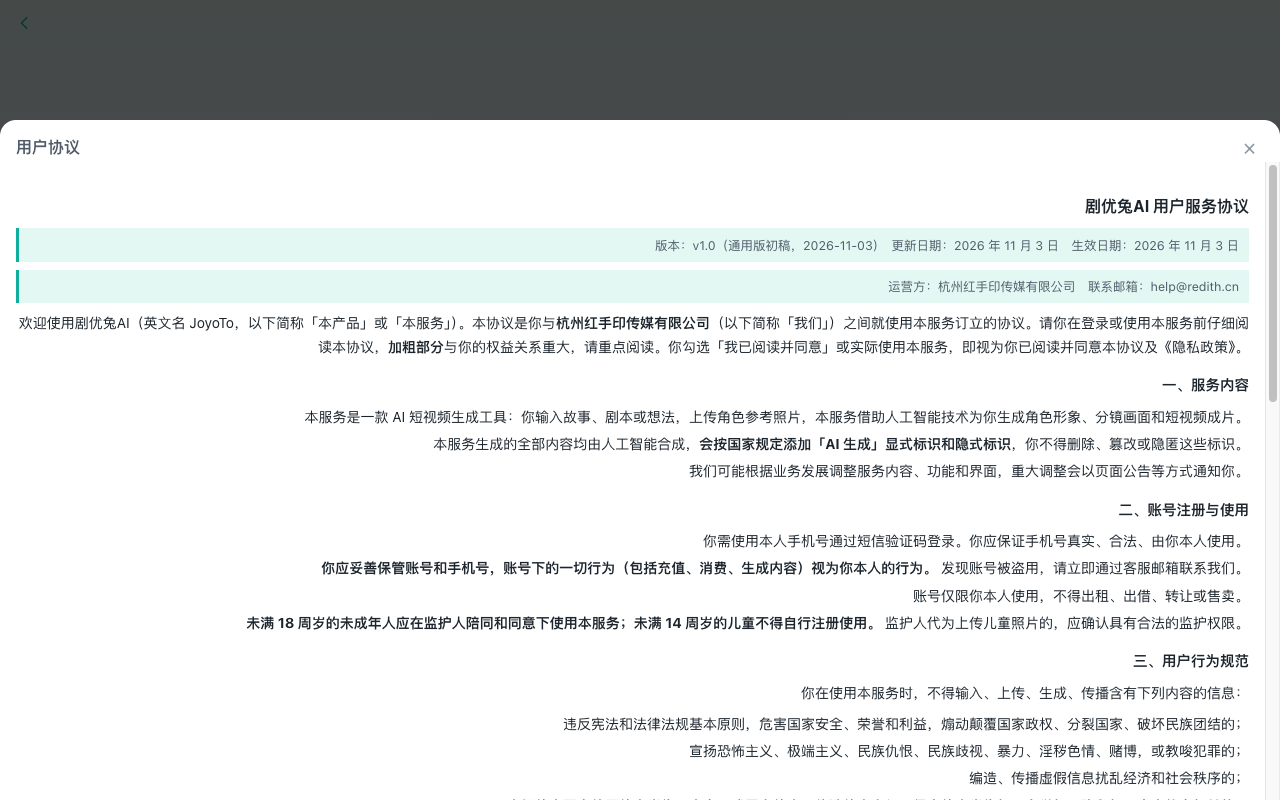
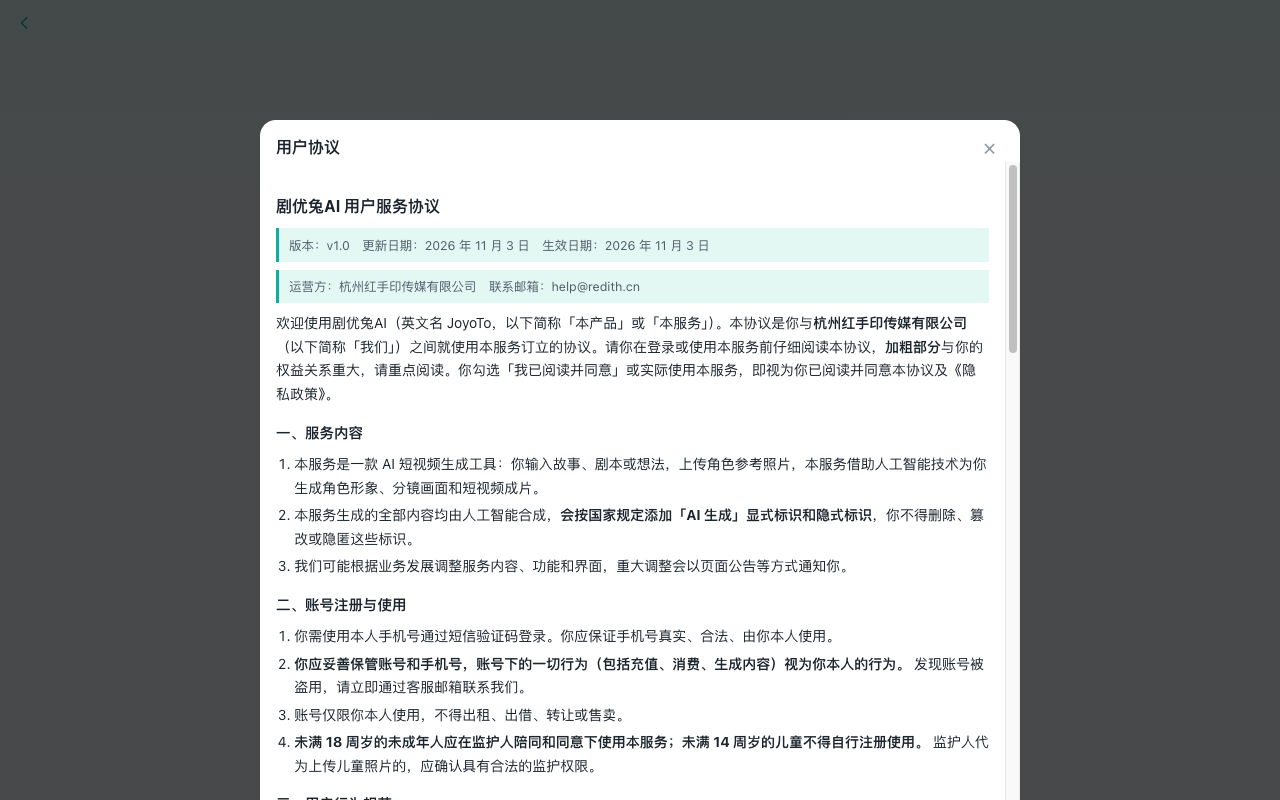
M3-LEGAL-01 复审必改修复：Docker 构建/抽屉对齐/钱包提示/consents.current/ol 序号 + 建议 a~d
背景：Lead 复审 5 必改 + 建议 a~d（§6 @ c6ffe0c）。
受影响模块：.dockerignore+Dockerfile.web（docs/legal 放行与 COPY——注意两者都不支持行内注释）、LoginPage（抽屉移根节点+PC 760 居中）、WalletPage（提示移卡片底一次）、auth/consents.js+routes.js（current 返回+登录同版本不追加）、前端 usePhotoConsent/PhotoConsentSheet/types/mock（改用 consents.current、删前端版本常量、403 先刷新、隐私链接、选图前拦截 upload-guard）、三处 .doc ol 序号。
验证结果：docker build -f deploy/Dockerfile.web 本地跑通；双端（375 触屏+iPhoneUA / 1280）走查 5 必改与建议 a 三链全过（截图更新）；test:server 463/463、check、build 通过。

diff --git a/apps/web/src/pages/AssetNewPage.vue b/apps/web/src/pages/AssetNewPage.vue
@@ -1,7 +1,8 @@
 <script setup lang="ts">
 // 新建数字人（PRD 4.1）：昵称、标签、0~5 张照片或文字描述、默认声音；可选立即生成一个风格的形象（收费，先报价）。
-import { computed, onMounted, reactive, ref } from 'vue';
+import { computed, nextTick, onMounted, reactive, ref } from 'vue';
 import { useRouter } from 'vue-router';
+import { useAuthStore } from '@/stores/auth';
 import { showToast, type UploaderFileListItem } from 'vant';
 import { api } from '@/api';
 import StylePicker from '@/components/StylePicker.vue';
@@ -25,7 +26,23 @@ const valid = computed(() => form.name.trim() && (photos.value.length > 0 || for
 
 onMounted(async () => { const c = await catalogStore.load(); form.styleId = c.styles[0]?.id || ''; });
 
-const { visible: consentVisible, ensurePhotoConsent, onDecided } = usePhotoConsent();
+const auth = useAuthStore();
+const { visible: consentVisible, ensurePhotoConsent, onDecided, consented } = usePhotoConsent();
+
+// M3-LEGAL-01 复审建议 a：未同意时拦截上传区点击（capture 阶段阻止），先弹同意层，
+// 「同意并上传」后再打开系统文件选择器——比「选完才弹」更符合「选照片前告知」；
+// afterRead 兜底保留（多选粘贴等路径）。
+const pickerArmed = ref(false);
+async function onUploaderClick(event: Event) {
+  if (pickerArmed.value || consented()) { pickerArmed.value = false; return; }
+  event.preventDefault();
+  event.stopPropagation();
+  if (await ensurePhotoConsent()) {
+    pickerArmed.value = true;
+    await nextTick();
+    document.querySelector<HTMLInputElement>('.upload-guard input[type=file]')?.click();
+  }
+}
 
 // M3-LEGAL-01：选照片入口前确保照片同意（「不同意」不上传且不留本地预览——双端走查抓到
 // 此前只 return、预览仍显示已选，与「不同意不上传」承诺不符）；上传返回 403 时补弹（版本升级等）
@@ -45,6 +62,8 @@ async function afterRead(item: UploaderFileListItem | UploaderFileListItem[]) {
       if ((e as { code?: string }).code === 'PHOTO_CONSENT_REQUIRED') {
         it.status = 'failed';
         it.message = '需先同意照片使用说明';
+        // 复审建议 b：本地快照可能过期（版本升级/多端），收到 403 先刷新一次再判断
+        try { await auth.check(); } catch { /* 刷新失败继续弹层 */ }
         if (await ensurePhotoConsent()) {
           it.status = 'uploading';
           try { uploadIds.set(it, (await api.uploadImage(it.file)).uploadId); it.status = 'done'; continue; } catch (e2) { it.status = 'failed'; it.message = '上传失败'; }
@@ -90,7 +109,9 @@ async function save(withLook: boolean) {
 
     <section class="miv-card">
       <div class="miv-section-title">照片 <span class="miv-hint">1~{{ maxPhotos }} 张清晰正脸照，效果更像</span></div>
-      <van-uploader v-model="photos" :max-count="maxPhotos" multiple accept="image/jpeg,image/png,image/webp" :after-read="afterRead" />
+      <div class="upload-guard" @click.capture="onUploaderClick">
+        <van-uploader v-model="photos" :max-count="maxPhotos" multiple accept="image/jpeg,image/png,image/webp" :after-read="afterRead" />
+      </div>
       <van-field v-model="form.description" type="textarea" rows="2" autosize label="外貌描述" :placeholder="photos.length ? '可选，补充发型、穿着等' : '没有照片时必填，如：5 岁小女孩，短发，爱穿黄色裙子'" maxlength="200" />
       <p class="miv-hint">照片只用于生成你自己的数字人，永久保存在你的账号下，仅你本人可见。</p>
     </section>

diff --git a/apps/web/src/pages/LoginPage.vue b/apps/web/src/pages/LoginPage.vue
@@ -56,20 +56,22 @@ onBeforeUnmount(() => clearInterval(timer));
           <van-button size="small" type="primary" plain :disabled="!phoneValid || cooldown > 0" @click="sendCode">
             {{ cooldown > 0 ? `${cooldown} 秒` : '获取验证码' }}
           </van-button>
-          <van-popup v-model:show="docVisible" position="bottom" round class="doc-sheet" :style="{ maxHeight: '85vh' }">
-    <div class="doc-head">
-      <strong>{{ docTitle }}</strong>
-      <button type="button" class="doc-close" aria-label="关闭" @click="doc = null">×</button>
-    </div>
-    <div class="doc-scroll"><article class="doc" v-html="docHtml" /></div>
-  </van-popup>
-</template>
+        </template>
       </van-field>
       <van-checkbox v-model="agreed" icon-size="16" class="agree">
         <span class="miv-hint">我已阅读并同意<a class="legal-link" role="button" @click.stop="doc = 'terms'">《用户协议》</a>和<a class="legal-link" role="button" @click.stop="doc = 'privacy'">《隐私政策》</a></span>
       </van-checkbox>
       <van-button type="primary" block :loading="loading" :disabled="!phoneValid || code.length !== 6" @click="login">登录</van-button>
     </div>
+    <!-- M3-LEGAL-01 必改②：协议抽屉放根节点下（原先嵌在 van-field 的 #button 插槽里，
+         继承输入区右对齐导致正文右对齐）；PC 下限宽 760 居中 -->
+    <van-popup v-model:show="docVisible" position="bottom" round class="doc-sheet" :style="{ maxHeight: '85vh' }">
+      <div class="doc-head">
+        <strong>{{ docTitle }}</strong>
+        <button type="button" class="doc-close" aria-label="关闭" @click="doc = null">×</button>
+      </div>
+      <div class="doc-scroll"><article class="doc" v-html="docHtml" /></div>
+    </van-popup>
   </div>
 </template>
 
@@ -85,6 +87,7 @@ h1 { font-size: 20px; }
 @media (min-width: 480px) { .panel { margin: 10vh auto 0; } }
 .legal-link { color: var(--miv-primary); cursor: pointer; }
 .doc-sheet { display: flex; flex-direction: column; background: var(--miv-surface); }
+@media (min-width: 480px) { .doc-sheet { max-width: 760px; left: 50%; right: auto; transform: translateX(-50%); border-radius: var(--miv-radius-lg) var(--miv-radius-lg) 0 0; } }
 .doc-head { display: flex; align-items: center; justify-content: space-between; padding: var(--miv-space-3) var(--miv-space-4) 0; }
 .doc-head strong { font-size: 16px; }
 .doc-close { border: 0; background: transparent; font-size: 22px; line-height: 1; color: var(--miv-text-3); cursor: pointer; padding: 4px 8px; }
@@ -95,6 +98,7 @@ h1 { font-size: 20px; }
 .doc :deep(p) { margin: 0.5em 0; }
 .doc :deep(blockquote) { margin: 0.6em 0; padding: 0.5em 0.8em; background: var(--miv-primary-soft); border-left: 3px solid var(--miv-primary); font-size: 12.5px; color: var(--miv-text-2); }
 .doc :deep(ul), .doc :deep(ol) { margin: 0.5em 0; padding-left: 1.3em; }
+.doc :deep(ol) { list-style: decimal; }  /* M3-LEGAL-01 必改⑤：保留条款序号 */
 .doc :deep(li) { margin: 0.25em 0; }
 .doc :deep(table) { display: block; max-width: 100%; overflow-x: auto; border-collapse: collapse; margin: 0.6em 0; font-size: 12.5px; white-space: nowrap; }
 .doc :deep(th), .doc :deep(td) { border: 1px solid var(--miv-border); padding: 4px 8px; text-align: left; }

diff --git a/server/test/legal-consents.test.js b/server/test/legal-consents.test.js
@@ -68,14 +68,22 @@ describe('M3-LEGAL-01：同意记录与照片上传守卫', () => {
     `SELECT version, created_at FROM user_consents WHERE user_id = $1 AND kind = $2 ORDER BY created_at, id`,
     [account.user.id, kind]).then((r) => r.rows);
 
-  test('登录 agreeTerms：记 terms 当前版本、User.consents 返回版本；再登录追加一条（只追加）', async () => {
+  test('登录 agreeTerms：记 terms 当前版本与 consents.current；同版本重复登录不追加、版本变化追加（建议 d）', async () => {
     assert.equal(account.user.consents.terms, TERMS_VERSION);
+    assert.equal(account.user.consents.current.terms, TERMS_VERSION, '复审必改④：current 返回服务端当前版本');
+    assert.equal(account.user.consents.current.photo, 'photo-v1');
     assert.equal(account.user.consents.photo, null);
     assert.equal((await consentRows('terms')).length, 1);
-    // 第二次登录（同账号）：再追加一条，历史不覆盖
+    // 第二次登录（同版本）：不追加（建议 d：防表无限增长）
     const again = await signUp('15800000777', { reusePhone: true });
     assert.equal(again.user.consents.terms, TERMS_VERSION);
-    assert.equal((await consentRows('terms')).length, 2, '每次同意都追加留痕');
+    assert.equal((await consentRows('terms')).length, 1, '同版本重复登录不追加');
+    // 版本升级（模拟）：服务端改版本后登录 → 追加新版本留痕
+    await ctx.db.query(`UPDATE user_consents SET version = 'terms-v0' WHERE user_id = $1 AND kind = 'terms'`,
+      [account.user.id]);
+    const third = await signUp('15800000777', { reusePhone: true });
+    assert.equal(third.user.consents.terms, TERMS_VERSION);
+    assert.equal((await consentRows('terms')).length, 2, '版本变化时重新追加留痕');
   });
 
   test('登录未勾选 agreeTerms → 400（不变）', async () => {
@@ -97,7 +105,8 @@ describe('M3-LEGAL-01：同意记录与照片上传守卫', () => {
     assert.equal(res.status, 400, 'kind 只能是 photo（terms 只随登录记录）');
     res = await post('/me/consents', { kind: 'photo', version: PHOTO_CONSENT_VERSION }, account);
     assert.equal(res.status, 200);
-    assert.deepEqual(await res.json(), { consents: { terms: TERMS_VERSION, photo: PHOTO_CONSENT_VERSION } });
+    assert.deepEqual(await res.json(), { consents: { terms: TERMS_VERSION, photo: PHOTO_CONSENT_VERSION,
+      current: { terms: TERMS_VERSION, photo: PHOTO_CONSENT_VERSION } } });  // 复审必改④：响应含 current
     await post('/me/consents', { kind: 'photo', version: PHOTO_CONSENT_VERSION }, account);
     assert.equal((await consentRows('photo')).length, 2, '重复同意只追加新记录');
   });

diff --git a/apps/web/src/components/PhotoConsentSheet.vue b/apps/web/src/components/PhotoConsentSheet.vue
@@ -4,7 +4,10 @@
 import { computed, ref } from 'vue';
 import { showFailToast } from 'vant';
 import { api } from '@/api';
-import { PHOTO_CONSENT_VERSION, photoConsentText, renderLegalMarkdown } from '@/utils/legal';
+import { photoConsentText, renderLegalMarkdown } from '@/utils/legal';
+import { useAuthStore } from '@/stores/auth';
+
+const auth = useAuthStore();
 
 const visible = defineModel<boolean>({ required: true });
 const deciding = ref(false);
@@ -15,7 +18,10 @@ async function agree() {
   if (deciding.value) return;
   deciding.value = true;
   try {
-    await api.photoConsent(PHOTO_CONSENT_VERSION);
+    // 提交版本以服务端 consents.current 为准（复审必改④：前端不再自带版本常量）
+    const version = auth.user?.consents?.current?.photo;
+    if (!version) throw new Error('无法获取当前协议版本，请稍后再试');
+    await api.photoConsent(version);
     visible.value = false;
     emit('decided', true);
   } catch (e) {
@@ -38,7 +44,7 @@ function decline() {
     </div>
     <div class="scroll">
       <article class="doc" v-html="html" />
-      <p class="miv-hint">不同意不会上传任何照片；同意仅针对上方说明所列用途，可随时删除照片。</p>
+      <p class="miv-hint">不同意不会上传任何照片；同意仅针对上方说明所列用途，可随时删除照片。<router-link class="legal-link" to="/legal/privacy" target="_blank">《隐私政策》</router-link></p>
     </div>
     <div class="actions">
       <van-button block plain type="default" @click="decline">不同意</van-button>
@@ -49,6 +55,7 @@ function decline() {
 
 <style scoped>
 .sheet { display: flex; flex-direction: column; background: var(--miv-surface); }
+.legal-link { color: var(--miv-primary); }
 .head { display: flex; align-items: center; justify-content: space-between; padding: var(--miv-space-3) var(--miv-space-4) 0; }
 .head strong { font-size: 16px; }
 .close { border: 0; background: transparent; font-size: 22px; line-height: 1; color: var(--miv-text-3); cursor: pointer; padding: 4px 8px; }
@@ -60,6 +67,7 @@ function decline() {
 .doc :deep(blockquote) { margin: 0.6em 0; padding: 0.5em 0.8em; background: var(--miv-primary-soft);
   border-left: 3px solid var(--miv-primary); font-size: 12.5px; color: var(--miv-text-2); }
 .doc :deep(ul), .doc :deep(ol) { margin: 0.5em 0; padding-left: 1.3em; }
+.doc :deep(ol) { list-style: decimal; }  /* M3-LEGAL-01 必改⑤：保留条款序号 */
 .doc :deep(li) { margin: 0.25em 0; }
 .doc :deep(table) { display: block; max-width: 100%; overflow-x: auto; border-collapse: collapse;
   margin: 0.6em 0; font-size: 12.5px; white-space: nowrap; }

diff --git a/apps/web/src/api/mock/index.ts b/apps/web/src/api/mock/index.ts
@@ -110,7 +110,8 @@ function load(): MockState {
       const state = { ...emptyState(), ...(JSON.parse(raw) as MockState) };
       // M3-LEGAL-01：旧演示数据没有 consents 字段——补默认（视为未同意照片说明）
       if (state.session?.user && !state.session.user.consents) {
-        state.session.user.consents = { terms: 'terms-v1', photo: null };
+        state.session.user.consents = { terms: 'terms-v1', photo: null,
+          current: { terms: 'terms-v1', photo: 'photo-v1' } };
       }
       return state;
     }
@@ -462,7 +463,8 @@ export const mockApi: MivApi = {
       // M3-LEGAL-01：登录 agreeTerms 即记录协议版本；照片同意沿用该浏览器之前的记录
       user: { id: uid('usr'), phoneMasked: `${phone.slice(0, 3)}****${phone.slice(7)}`, nickname: `用户${phone.slice(7)}`,
         onboarding: isNewUser ? { tourCompletedAt: null, tipsSeen: [] } : state.session?.user.onboarding ?? { tourCompletedAt: iso(), tipsSeen: [] },
-        consents: { terms: 'terms-v1', photo: state.session?.user?.consents?.photo ?? null } },
+        consents: { terms: 'terms-v1', photo: state.session?.user?.consents?.photo ?? null,
+          current: { terms: 'terms-v1', photo: 'photo-v1' } } },
     };
     tick();
     return { ...clone(state.session), isNewUser };

diff --git a/server/src/auth/routes.js b/server/src/auth/routes.js
@@ -41,8 +41,12 @@ export function buildAuthRoutes({ config, db, logger, provider, requireAuth, set
       message: '尝试次数太多，请一小时后再试',
     });
     const { user, isNewUser, token, csrfToken } = await loginWithSmsCode({ db, config, phone, code });
-    // M3-LEGAL-01：勾选「我已阅读并同意」= 记录 terms 当前版本（每次登录都追加一条留痕）
-    await recordConsent(db, { userId: user.id, kind: 'terms', version: TERMS_VERSION, ip: req.ip });
+    // M3-LEGAL-01：勾选「我已阅读并同意」= 记录 terms 当前版本。
+    // 复审建议 d：仅当最新一条版本不同才追加（版本升级时重新留痕；重复登录不再堆行）
+    const beforeLogin = await getConsents(db, user.id);
+    if (beforeLogin.terms !== TERMS_VERSION) {
+      await recordConsent(db, { userId: user.id, kind: 'terms', version: TERMS_VERSION, ip: req.ip });
+    }
     setSessionCookie(res, token);
     logger.info('user_login', { userId: user.id, isNewUser, phone: maskPhone(phone) });
     res.json({ user: { ...serializeUser(user, { urlFor }),

diff --git a/server/src/auth/consents.js b/server/src/auth/consents.js
@@ -17,13 +17,15 @@ export async function recordConsent(t, { userId, kind, version, ip }) {
   );
 }
 
-/** 各 kind 最新一条的版本：{ terms: string|null, photo: string|null }。 */
+/** 各 kind 最新一条的版本 + 服务端当前版本（API.md §1：`current` 供前端判断是否需再同意——
+ * 前端不得自带版本常量，避免与服务端/正文三处不同步，M3-LEGAL-01 复审必改④）。 */
 export async function getConsents(db, userId) {
   const { rows } = await db.query(
     `SELECT DISTINCT ON (kind) kind, version FROM user_consents
       WHERE user_id = $1 ORDER BY kind, created_at DESC, id DESC`, [userId]);
   const found = Object.fromEntries(rows.map((r) => [r.kind, r.version]));
-  return { terms: found.terms ?? null, photo: found.photo ?? null };
+  return { terms: found.terms ?? null, photo: found.photo ?? null,
+    current: { terms: TERMS_VERSION, photo: PHOTO_CONSENT_VERSION } };
 }
 
 /** 照片同意写入（POST /me/consents）：版本必须等于服务端当前版本。 */

diff --git a/apps/web/src/composables/usePhotoConsent.ts b/apps/web/src/composables/usePhotoConsent.ts
@@ -4,7 +4,6 @@
 import { ref } from 'vue';
 import { api } from '@/api';
 import { useAuthStore } from '@/stores/auth';
-import { PHOTO_CONSENT_VERSION } from '@/utils/legal';
 
 const visible = ref(false);
 let resolver: ((agreed: boolean) => void) | null = null;
@@ -12,8 +11,12 @@ let resolver: ((agreed: boolean) => void) | null = null;
 export function usePhotoConsent() {
   const auth = useAuthStore();
 
-  /** 当前登录用户是否已同意当前照片版本（User.consents 由登录 / me / 接口返回同步）。 */
-  const consented = () => auth.user?.consents?.photo === PHOTO_CONSENT_VERSION;
+  /** 是否已同意当前照片版本——版本号以服务端返回的 consents.current 为准（复审必改④：
+   *  前端不再自带版本常量，避免与服务端/正文三处不同步）。 */
+  const consented = () => {
+    const c = auth.user?.consents;
+    return !!c?.current?.photo && c.photo === c.current.photo;
+  };
 
   function openSheet(): Promise<boolean> {
     visible.value = true;

diff --git a/apps/web/src/pages/WalletPage.vue b/apps/web/src/pages/WalletPage.vue
@@ -65,10 +65,11 @@ const date = (iso: string) => new Date(iso).toLocaleString('zh-CN');
     <section class="miv-card">
       <div class="miv-section-title">明细</div>
       <van-cell v-for="item in ledger" :key="item.id" :title="item.title" :label="labelOf(item)">
-        <template #value><span :class="amountOf(item).cls">{{ amountOf(item).text }}</span>  <p class="miv-hint foot">充值如需退款或对订单有疑问，请联系客服 help@redith.cn</p>
-</template>
+        <template #value><span :class="amountOf(item).cls">{{ amountOf(item).text }}</span></template>
       </van-cell>
       <van-empty v-if="!ledger.length" description="暂无记录" image-size="64" />
+      <!-- M3-LEGAL-01 必改③：退款/客服提示只在明细卡片底部出现一次（原先写进每条明细的 #value 重复显示） -->
+      <p class="miv-hint foot">充值如需退款或对订单有疑问，请联系客服 help@redith.cn</p>
     </section>
   </div>
 </template>

diff --git a/apps/web/src/utils/legal.ts b/apps/web/src/utils/legal.ts
@@ -9,9 +9,8 @@ export const termsText = termsMarkdown;
 export const privacyText = privacyMarkdown;
 export const photoConsentText = photoConsentMarkdown;
 
-// ⚠ 版本常量与两处同步：docs/legal/*.md 头部版本行、服务端 server/src/auth/consents.js。
-export const TERMS_VERSION = 'terms-v1';
-export const PHOTO_CONSENT_VERSION = 'photo-v1';
+// 版本常量已删除（M3-LEGAL-01 复审必改④）：判断与提交一律用服务端返回的
+// consents.current（见 /api/v1/auth/me、login 响应），避免三处不同步。
 
 const escapeHtml = (text: string) => text
   .replace(/&/g, '&amp;').replace(/</g, '&lt;').replace(/>/g, '&gt;').replace(/"/g, '&quot;');

diff --git a/apps/web/src/api/types.ts b/apps/web/src/api/types.ts
@@ -11,6 +11,7 @@ export interface Onboarding { tourCompletedAt: string | null; tipsSeen: TipKey[]
 export interface Consents {
   terms: string | null;   // 已同意的《用户协议》《隐私政策》版本（登录 agreeTerms 记录）
   photo: string | null;   // 已同意的照片使用说明版本（人脸/儿童照片单独同意）
+  current: { terms: string; photo: string };  // 服务端当前版本（判断「已同意」的唯一依据，前端不自带常量）
 }
 export interface User { id: string; phoneMasked: string; nickname: string; avatarUrl?: string; onboarding: Onboarding; consents: Consents }
 export interface Session { user: User; csrfToken: string }

diff --git a/apps/web/src/pages/LegalPage.vue b/apps/web/src/pages/LegalPage.vue
@@ -38,6 +38,7 @@ header.bar { position: sticky; top: 0; z-index: 5; }
   border-left: 3px solid var(--miv-primary); border-radius: 0 var(--miv-radius-sm) var(--miv-radius-sm) 0;
   font-size: 13.5px; color: var(--miv-text-2); }
 .doc :deep(ul), .doc :deep(ol) { margin: 0.6em 0; padding-left: 1.4em; }
+.doc :deep(ol) { list-style: decimal; }  /* M3-LEGAL-01 必改⑤：保留条款序号 */
 .doc :deep(li) { margin: 0.3em 0; }
 /* 表格横向滚动（375px 下宽表不挤爆版式） */
 .doc :deep(table) { display: block; max-width: 100%; overflow-x: auto; border-collapse: collapse;
